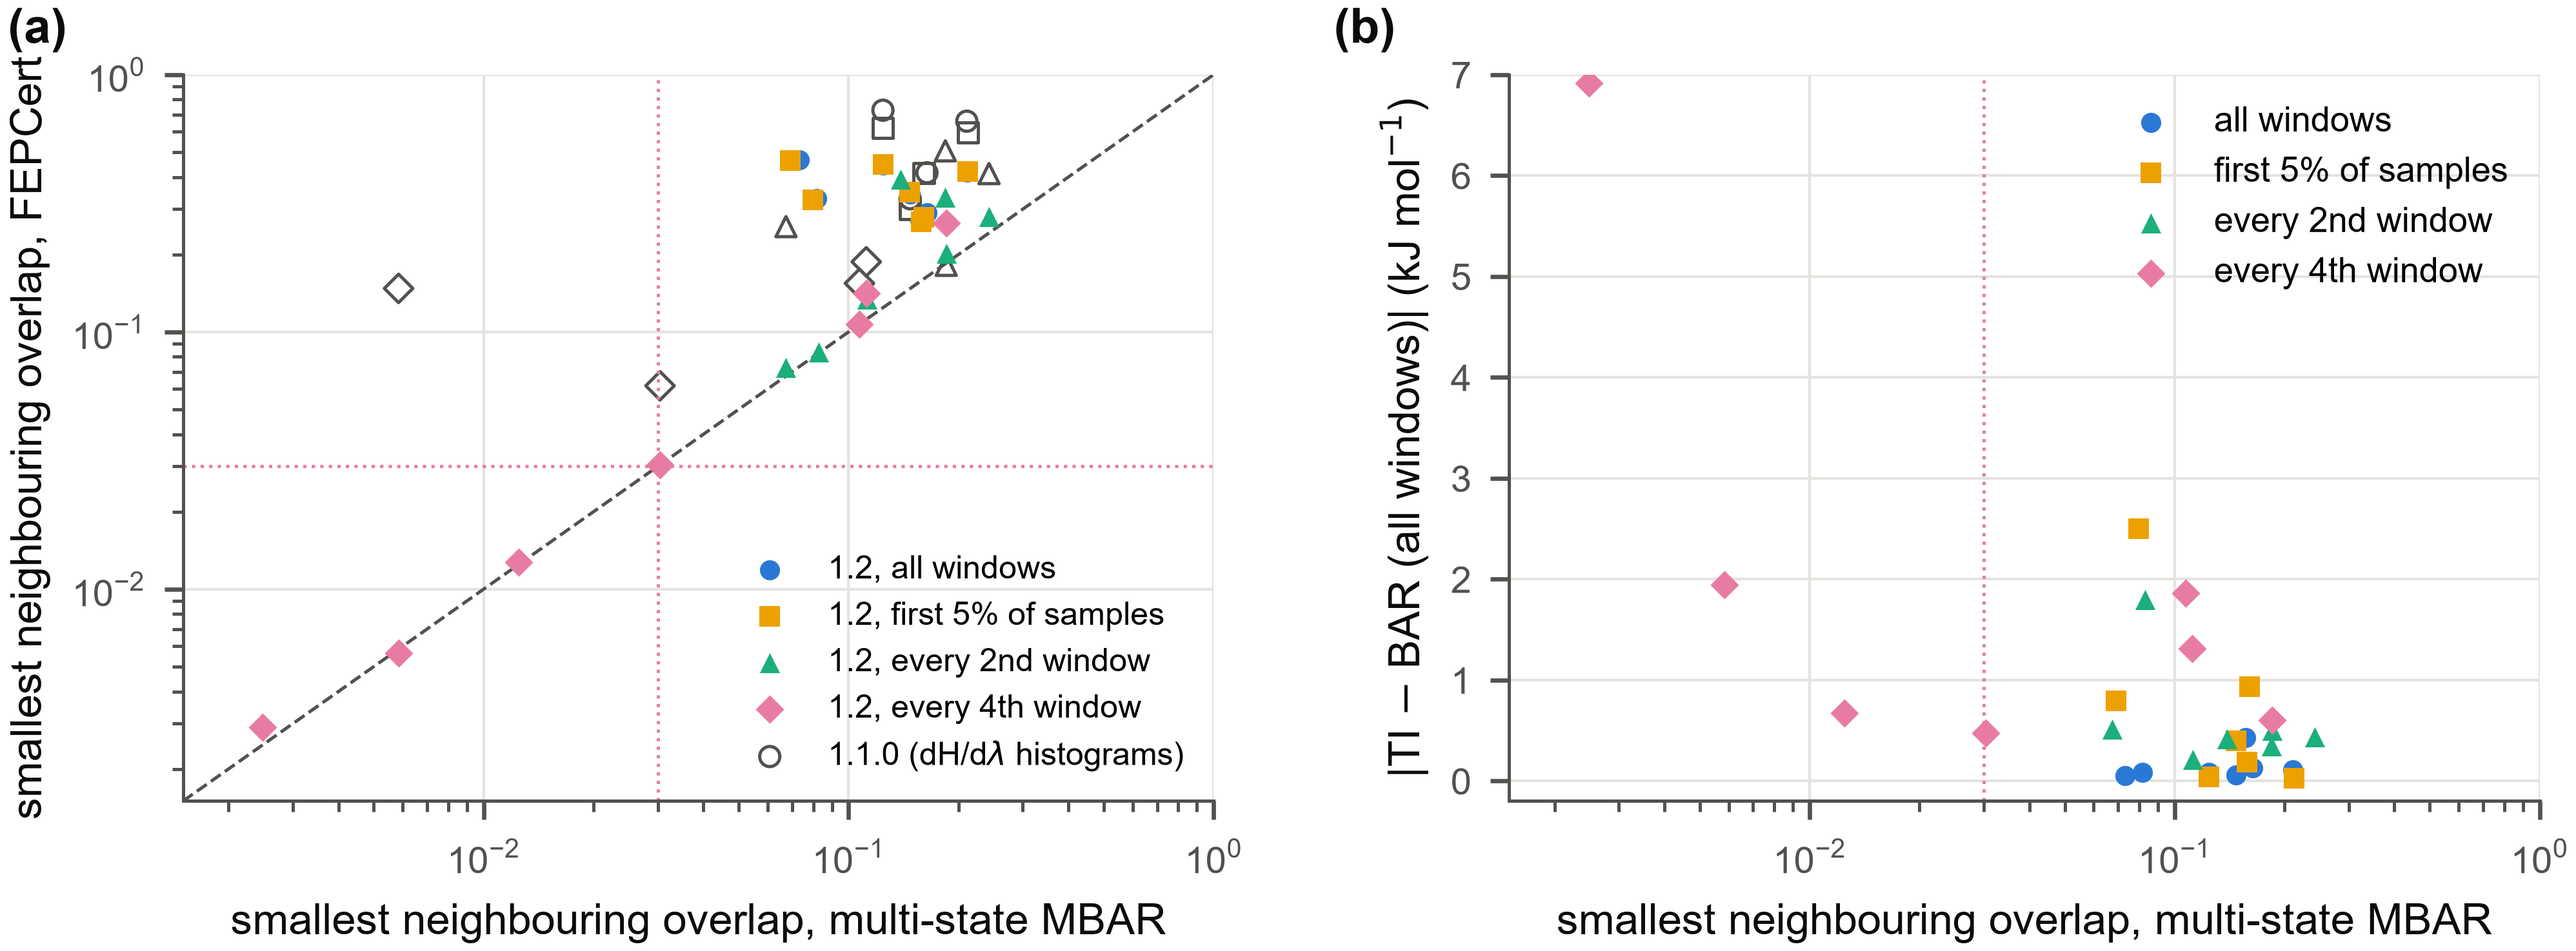
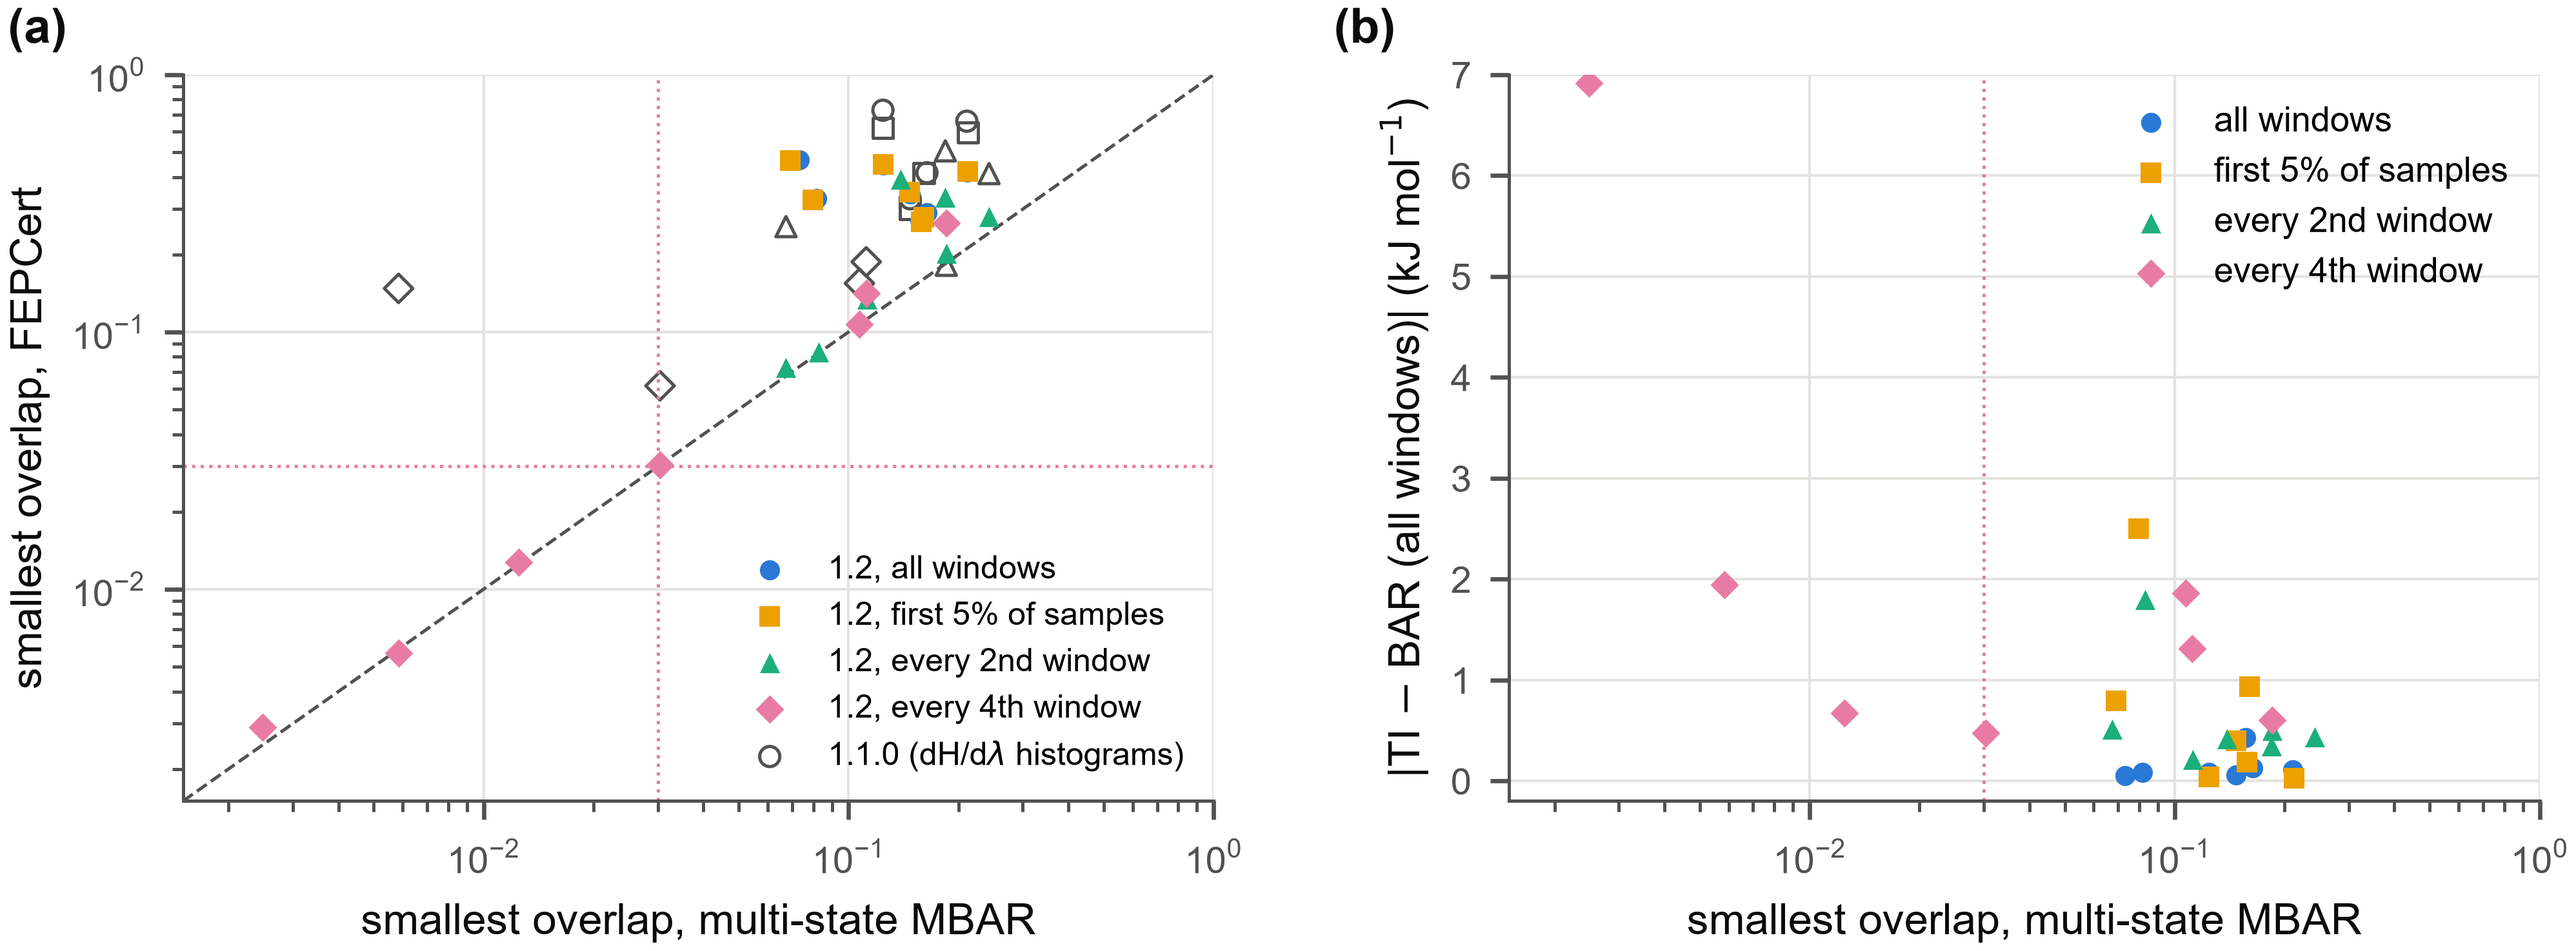
validation figures: shorter axis labels in the overlap figure
The y-axis label of the overlap panel was clipped; figures regenerated with validation/make_figures.py (same data).

diff --git a/validation/make_figures.py b/validation/make_figures.py
@@ -65,8 +65,8 @@ def fig_overlap(d):
     a.plot(lim, lim, color=INK2, lw=0.6, ls="--")
     a.axvline(0.03, color=OLD, lw=0.6, ls=":")
     a.axhline(0.03, color=OLD, lw=0.6, ls=":")
-    a.set(xscale="log", yscale="log", xlim=lim, ylim=lim, xlabel="smallest neighbouring overlap, multi-state MBAR",
-          ylabel="smallest neighbouring overlap, FEPCert")
+    a.set(xscale="log", yscale="log", xlim=lim, ylim=lim, xlabel="smallest overlap, multi-state MBAR",
+          ylabel="smallest overlap, FEPCert")
     a.legend(loc="lower right", fontsize=6)
     panel(a, "a")
 
@@ -76,7 +76,7 @@ def fig_overlap(d):
         dev = np.abs(x.ti_fepcert.to_numpy() - ref.loc[list(zip(x.system, x.leg))].to_numpy())
         b.scatter(x.ov_mbar_min, dev, s=14, marker=mk, color=col, lw=0, label=VARNAME[v], zorder=3)
     b.axvline(0.03, color=OLD, lw=0.6, ls=":")
-    b.set(xscale="log", xlim=lim, ylim=(-0.2, 7.0), xlabel="smallest neighbouring overlap, multi-state MBAR",
+    b.set(xscale="log", xlim=lim, ylim=(-0.2, 7.0), xlabel="smallest overlap, multi-state MBAR",
           ylabel="|TI $-$ BAR (all windows)| (kJ mol$^{-1}$)")
     b.legend(loc="upper right")
     panel(b, "b")
